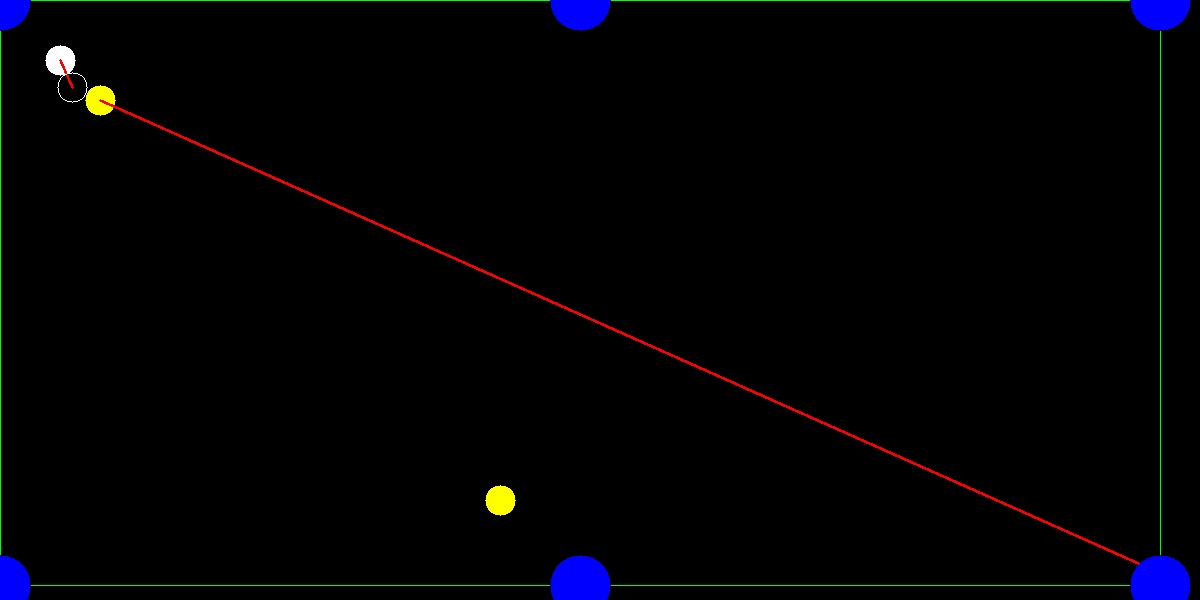
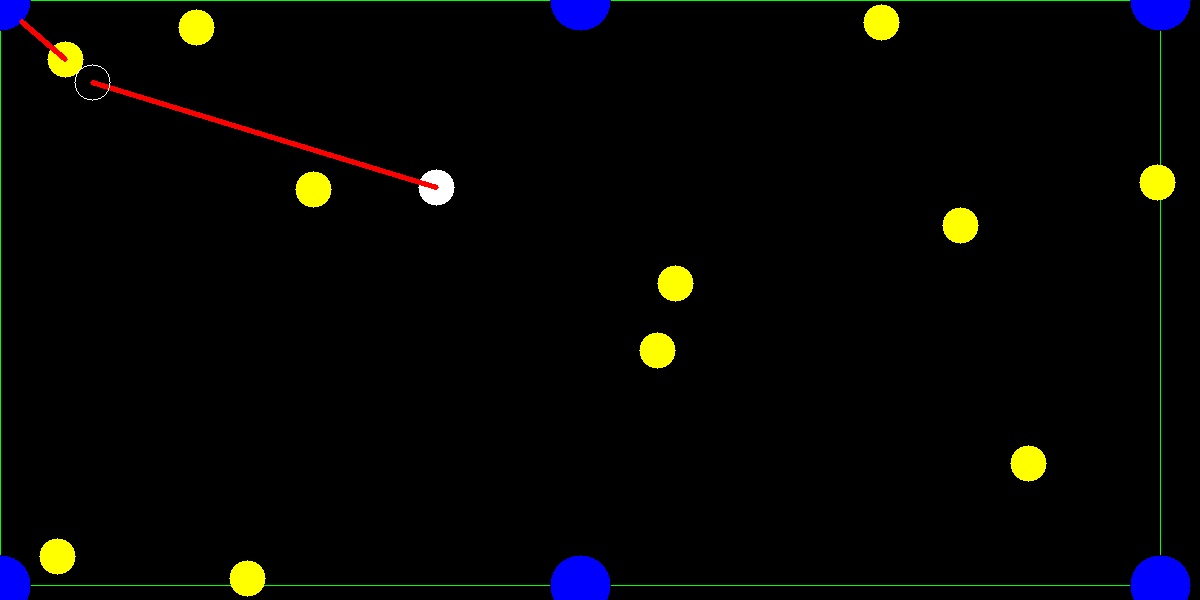
balls on edge of the wall detection is working

diff --git a/pool_ball_rec_2.py b/pool_ball_rec_2.py
@@ -23,16 +23,18 @@ kernel = np.ones((3, 3), np.uint8)
 def DetectPoolBalls():
     success,img = imcap.read()
     #img = LoadImage('img/pool_balls.jpeg')
-    img = img[115:700,360:1520]
+    img = img[140:745,335:1535]
     #Now the table is cropped and warped, lets find the balls
     hsv = ToHSV(img)
     
     lower_color, upper_color = GetClothColor(hsv)    
     
-    contours = GetContours(hsv, lower_color, upper_color,21)
-        
-    centers = FindTheBalls(img, contours, similarity_threshold=25)
+    contours,contours2 = GetContours(hsv, lower_color, upper_color,21)
+    centers = FindTheBalls(img, contours, RED, similarity_threshold=30)
+    centers2 = FindTheBalls(img, contours2, GREEN, similarity_threshold=30)    
     #print(len(centers))
+    print(centers,centers2)
+    centers = CombineTheList(centers,centers2)
     #IncreaseSaturation(img)
     cue, solids, eight_ball, stripes = FindTheColors(img,centers)
     final_list = BuildTheList(cue, solids, eight_ball, stripes)
@@ -50,6 +52,24 @@ def IncreaseSaturation(img):
     cv2.imshow("after", tmp_img)
     return tmp_img
     
+def CombineTheList(centers, centers2):
+    if len(centers) == 0:
+        return centers2
+    elif len(centers2) == 0:
+        return centers
+    newCenters = []
+    for ball1 in centers:
+        for ball2 in centers2:
+            if CheckTwoEqualBalls(ball1, ball2):
+                centers2.remove(ball2)
+        newCenters.append(ball1)
+    
+    return newCenters + centers2
+    
+def CheckTwoEqualBalls(ball1, ball2):
+    if abs(ball1[0] - ball2[0])>3 or abs(ball1[1] - ball2[1])>3:
+        return False
+    return True
 
 def LoadImage(filename):
     """
@@ -94,16 +114,21 @@ def GetContours(hsv, lower_color, upper_color,filter_radius):
     #use a median filter to get rid of speckle noise
     median = cv2.medianBlur(mask,filter_radius)
     cv2.imshow('median_detect', median)
-    mask = cv2.erode(mask, kernel, iterations=6)
-    mask = cv2.dilate(mask, kernel, iterations=3)
-    cv2.imshow('eroision&dilate', median)
+    
+    mask = cv2.erode(mask, kernel, iterations=3)
+    mask = cv2.dilate(mask, kernel, iterations=11)
+    
+    mask = cv2.erode(mask, kernel, iterations=5)
+    #mask = cv2.dilate(mask, kernel, iterations=10)
+    cv2.imshow('eroision&dilate', mask)
     
     #get the contours of the filtered mask
     #this modifies median in place!
     contours, _ = cv2.findContours(median,cv2.RETR_TREE,cv2.CHAIN_APPROX_SIMPLE)
-    return contours
+    contours2, _ = cv2.findContours(mask,cv2.RETR_TREE,cv2.CHAIN_APPROX_SIMPLE)
+    return contours,contours2
 
-def FindTheBalls(img, contours, similarity_threshold=15):
+def FindTheBalls(img, contours, color, similarity_threshold=15):
     """
     Find and circle all of the balls on the table.
     
@@ -116,6 +141,7 @@ def FindTheBalls(img, contours, similarity_threshold=15):
     for i,contour in enumerate(contours):
         contourArea = cv2.contourArea(contour)
         (x,y),radius = cv2.minEnclosingCircle(contour)
+        #if radius > 15:
         circleArea = 3.141 * (radius**2)
         diffs.append(abs(circleArea-contourArea))
         indexes.append(i)
@@ -131,10 +157,10 @@ def FindTheBalls(img, contours, similarity_threshold=15):
         #if the contour is a similar shape to the circle it is likely to be a ball.
         if (d < diffs[0] * similarity_threshold):
             (x,y),radius = cv2.minEnclosingCircle(contours[i])
-            if radius > 15 and y <1130 and x <1130:
-                cv2.circle(tmp_img,(int(x),int(y)),int(radius),(0,0,255),2)
+            if radius > 15: #and y <1130 and x <1130:
+                cv2.circle(tmp_img,(int(x),int(y)),int(radius),color,2)
                 centers.append((int(y),int(x), int(radius)))
-
+    cv2.imshow("test", tmp_img)
     return centers
 
 def FindTheColors(img, centers):
@@ -152,7 +178,7 @@ def FindTheColors(img, centers):
         print(centerY, centerX)
         if (centerY > 820 and centerY < 840):
             tmp_img = img[centerX - radius:centerX + radius,centerY - radius:centerY + radius]
-            cv2.imshow("tmp_img", tmp_img)
+            #cv2.imshow("tmp_img", tmp_img)
         for x in range(centerX - radius, centerX + radius):
             for y in range(centerY - radius, centerY + radius):
                 """if (centerY > 655 and centerY < 675):
@@ -167,7 +193,7 @@ def FindTheColors(img, centers):
                 else:
                     numOfOtherPixels +=1
         print(numOfBlackPixels, numOfWhitePixels, numOfOtherPixels)
-        if numOfBlackPixels > 100:
+        if numOfBlackPixels > 200:
             eight_ball.append((centerY,centerX,radius))
             cv2.circle(img,(int(centerY),int(centerX)),int(radius),(0,0,0),2)
         elif numOfWhitePixels > 500 and numOfWhitePixels > maxWhitePixels:
@@ -179,7 +205,7 @@ def FindTheColors(img, centers):
                 tmp_x,tmp_y,tmp_rad = cue.pop()
                 cue.append((centerY,centerX,radius))
                 cv2.circle(img,(int(centerY),int(centerX)),int(radius),(255,255,255),2)
-                cv2.circle(img,(int(tmp_y),int(tmp_x)),int(tmp_rad),RED,2)
+                cv2.circle(img,(int(tmp_x),int(tmp_y)),int(tmp_rad),RED,2)
                 stripes.append((tmp_y,tmp_x,tmp_rad))
                 maxWhitePixels = numOfWhitePixels
         elif numOfWhitePixels > 150:

diff --git a/shot_calculation.py b/shot_calculation.py
@@ -20,7 +20,7 @@ GHOST_BALL = 5          #The point at which the cue ball will make contact with 
 POCKETX = 0             #The Index which gets the x corrdinate of the pocket
 POCKETY = 1             #The Index which gets the y corrdinate of the pocket
 NUMBER_OF_PARAMS = 5    #The Number of parameters in the dictionary 
-RADIUS_BALL = 15         #The Radius of each ball
+RADIUS_BALL = 18         #The Radius of each ball
 RADIUS_POCKET = 30       #The Radius of  each pocket
 CUE_BALL = 0            #The Cue ball Index
 NO_POCKETS = 6          #The Number of Pockets on a standard pool table
@@ -359,11 +359,11 @@ def drawImage():
     print("Chosen Shot is {fort}".format(fort = chosen_shot+1))
     if (chosen_shot>=0):
         shot_params = ball_to_shots.get(chosen_shot+1)
-        cv.line(img,(listX[CUE_BALL],listY[CUE_BALL]),(shot_params[GHOST_BALL][0],shot_params[GHOST_BALL][1]),RED,2)
+        cv.line(img,(listX[CUE_BALL],listY[CUE_BALL]),(shot_params[GHOST_BALL][0],shot_params[GHOST_BALL][1]),RED,4)
         cv.circle(img,(shot_params[GHOST_BALL][0],shot_params[GHOST_BALL][1]),RADIUS_BALL,WHITE,1)
         pocketX = int(center_edges[pocket_for_each_ball[chosen_shot][0]][POCKETX])
         pocketY = int(center_edges[pocket_for_each_ball[chosen_shot][0]][POCKETY])
-        cv.line(img,(listX[chosen_shot+1],listY[chosen_shot+1]),(pocketX,pocketY),RED,2)
+        cv.line(img,(listX[chosen_shot+1],listY[chosen_shot+1]),(pocketX,pocketY),RED,4)
     cv.imwrite('ghost.jpeg',img)
 
 
